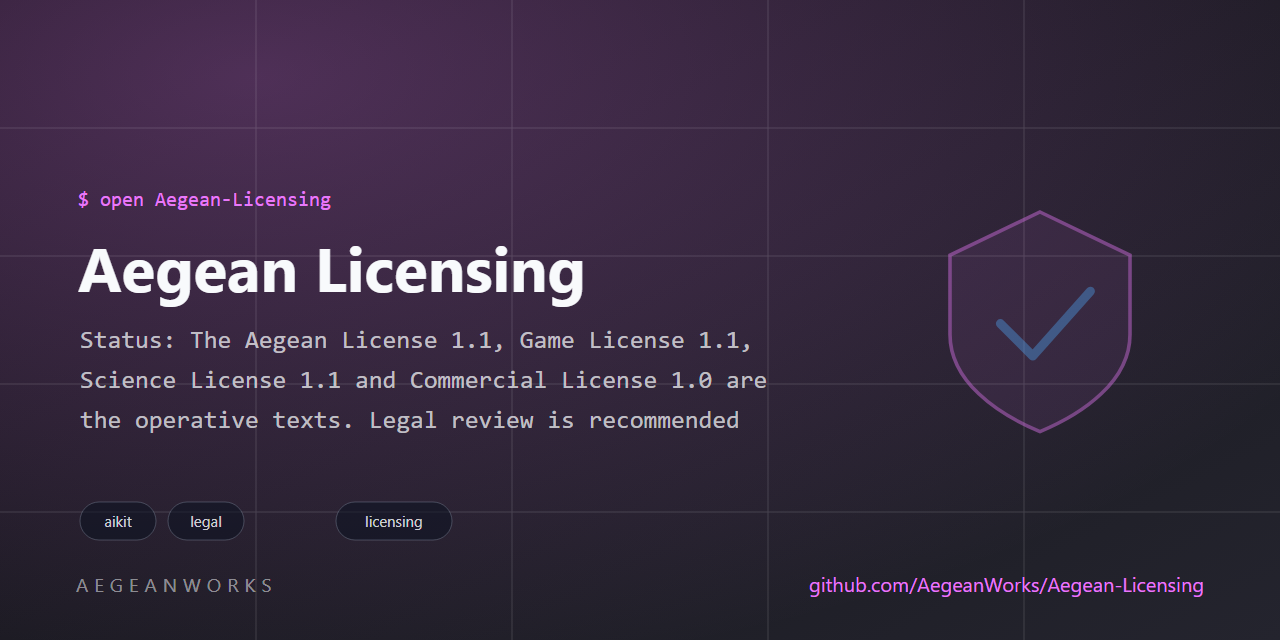
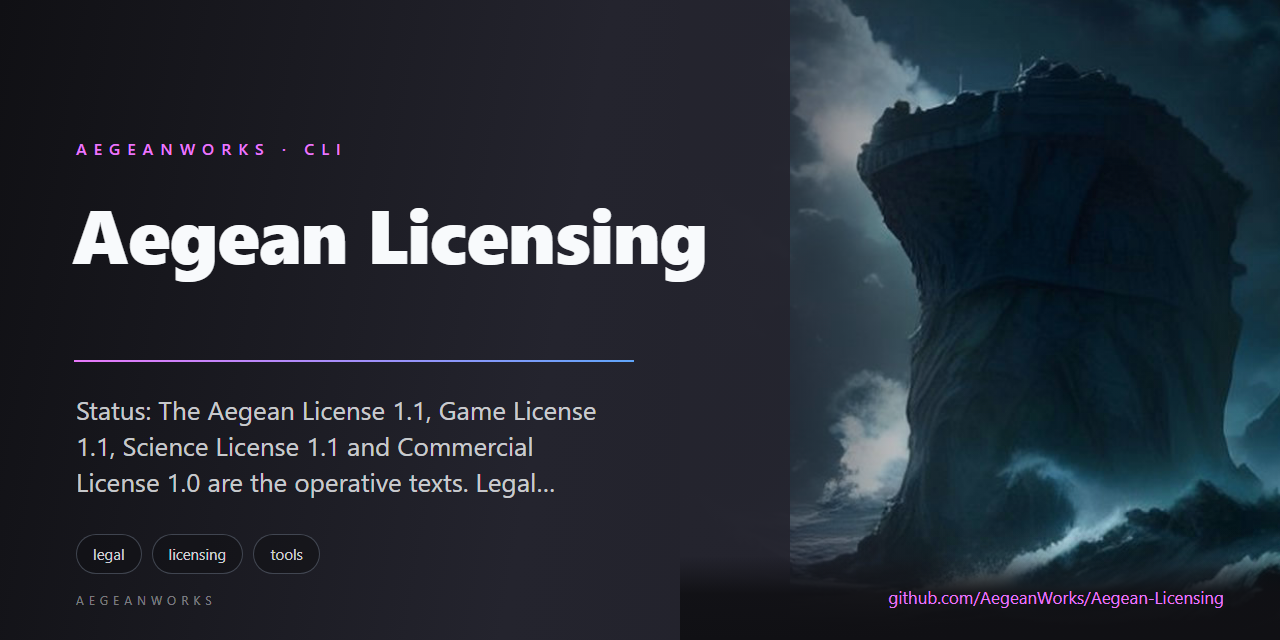
feat(brand): replace procedural marks with reviewed AI-art identities

diff --git a/README.md b/README.md
@@ -1,8 +1,8 @@
 # aegean-licensing
 
 <!-- aegean:media:start -->
-<p align="center"><img src="assets/logo.svg" alt="Aegean-Licensing logo" width="96" height="96"></p>
-<p align="center"><img src="assets/social-preview.svg" alt="Aegean-Licensing social preview" width="100%"></p>
+<p align="center"><img src="assets/logo.png" alt="Aegean-Licensing logo" width="96" height="96"></p>
+<p align="center"><img src="assets/social-preview.png" alt="Aegean-Licensing social preview" width="100%"></p>
 <!-- aegean:media:end -->
 
 [![Built with AIKit](https://img.shields.io/badge/built%20with-AIKit-6f42c1)](https://github.com/AegeanWorks/AIKit)
